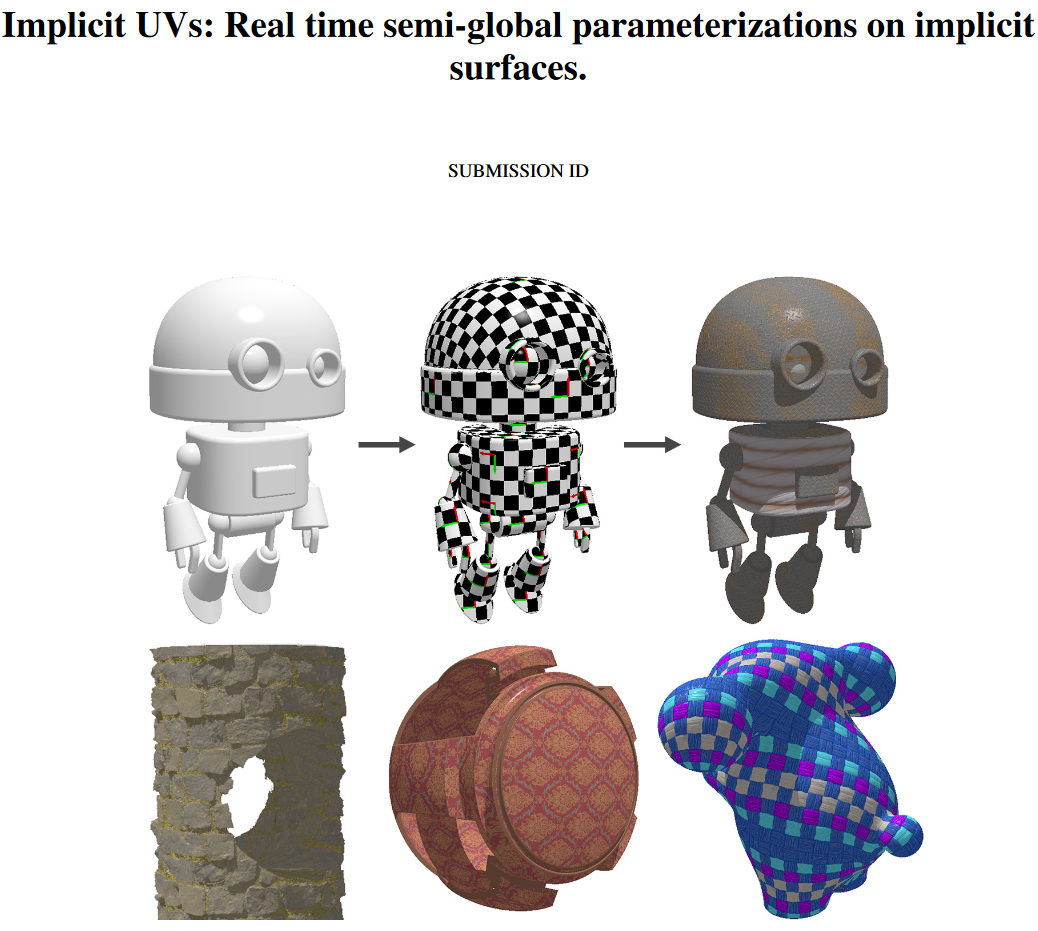
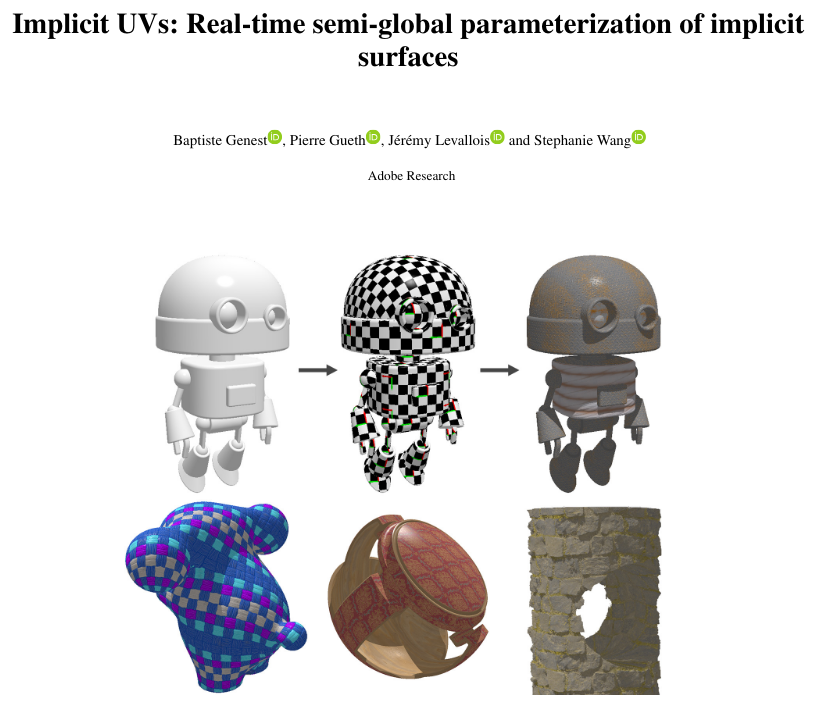
up prez

diff --git a/projects/implicit_uvs_simple/slides/curve_based.cpp b/projects/implicit_uvs_simple/slides/curve_based.cpp
@@ -32,12 +32,11 @@ void CreateCurveBasedSlides(slope::Slideshow& show) {
     auto save = show.getCurrentSlide();
 
     vec Log = LogSphere(p1,p2);
-    int fn = show.getNumberSlides() - 1;
 
-    auto geo = [p1,p2,Log,fn](scalar t,const TimeObject& time) {
-        if (time.absolute_frame_number == fn)
+    auto geo = [p1,p2,Log](scalar t,const TimeObject& time) {
+        if (time.relative_frame_number == 0)
             return p1;
-        if (time.absolute_frame_number == fn+1)
+        if (time.relative_frame_number == 1)
             return ExpSphere(p1,t*Log*smoothstep(time.from_action));
         return ExpSphere(p1,t*Log);
     };
@@ -46,7 +45,7 @@ void CreateCurveBasedSlides(slope::Slideshow& show) {
 
     auto geo_head = [Geo] (scalar) {
         return vec(Geo->getNodes().back());
-    }; 
+    };
 
     auto carry_vector = Point::Add(geo_head,0.0);
 
@@ -57,14 +56,60 @@ void CreateCurveBasedSlides(slope::Slideshow& show) {
     };
     show << Geo << carry_vector << carry_vector->addVector(transported_vector);
 
-    show << inNextFrame << inNextFrame >> carry_vector;
+    show << inNextFrame << save;
 
-    show << Latex::Add("We can accumulate a rotation matrix to map \\\\ vectors from $\\TM{x}$ to $\\TM{y}$ .")->at("discretization");
-        
-    show << Formula::Add("R_{\\TM{x} \\rightarrow \\TM{y}} = \\prod_{i = 1}^{N-1} R_{n(x_i)\\rightarrow n(x_{i+1})}")->at("parallel_transport_mat");
-    show << ptx->addVector(v) << Formula::Add("v")->at(vec(p1+v),vec2(0.0,-0.02)); 
-    vec vp = SmallestRotation(p1,p2)*v;
-    show << inNextFrame << pty->addVector(vp) << Formula::Add("v'")->at(vec(p2+vp),vec2(0.01,-0.03));
+
+    int N = 5;
+    vecs iterates(N);
+    for (int i = 0;i<N;i++)
+        iterates[i] = ExpSphere(p1,Log*i/(N-1));
+
+    auto iterates_pts = PointCloud::Add(iterates,0.03);
+    auto normals = iterates_pts->pc->addVectorQuantity("n",iterates);
+    normals->setVectorLengthScale(0.1);
+    normals->setVectorRadius(0.01);
+    show << iterates_pts << PolyscopeQuantity<polyscope::PointCloudVectorQuantity>::Add(normals);
+
+    {
+        vec x1 = iterates[1];
+        vec x2 = iterates[2];
+        vec Log = LogSphere(x1,x2);
+
+        auto geo = [x1, x2, Log](const TimeObject &time)
+        {
+            if (time.relative_frame_number == 0)
+                return x1;
+            if (time.relative_frame_number == 1)
+                return ExpSphere(x1, Log * smoothstep(time.from_action));
+            return x2;
+        };
+        vec vp = SmallestRotation(p1,x1)*v;
+        vec Tvp = SmallestRotation(x1,x2)*vp;
+        auto tangent_mapped = [vp,Tvp] (const TimeObject& time) {
+            if (time.relative_frame_number <= 1)
+                return vp;
+            if (time.relative_frame_number == 2)
+                return vec(slerp(vp.normalized(),Tvp.normalized(),smoothstep(time.from_action))*.3);
+            return Tvp;
+        };
+        auto normal_mapped = [x1,x2] (const TimeObject& time) {
+            if (time.relative_frame_number <= 1)
+                return vec(x1*.3);
+            if (time.relative_frame_number == 2)
+                return vec(slerp(x1,x2,smoothstep(time.from_action))*.3);
+            return vec(x2*.3);
+        };
+        auto pt =Point::Add(geo,0.);
+        show << pt << pt->addVector(normal_mapped) << pt->addVector(tangent_mapped) << inNextFrame;
+        show << Latex::Add("It can be discretized by aligning \\\\ consecutive normals along the curve, \\\\ using the smallest rotation \\\\ between $n(x_i)$ and $n(x_{i+1})$.")->at("discretization");
+        show << Formula::Add("R_{n(x_i)\\rightarrow n(x_{i+1})}")->at("smallest_rot");
+
+        show << inNextFrame ;
+        show << Formula::Add("R_{\\TM{x} \\rightarrow \\TM{y}} = \\prod_{i = 1}^{N-1} R_{n(x_i)\\rightarrow n(x_{i+1})}")->at("parallel_transport_mat");
+        show << inNextFrame << ptx->addVector(v) << Formula::Add("v")->at(vec(p1+v),vec2(0.0,-0.02));
+        vp = SmallestRotation(p1,p2)*v;
+        show << inNextFrame << pty->addVector(vp) << Formula::Add("v'")->at(vec(p2+vp),vec2(0.01,-0.03));
+    }
 
     show << newFrameSameTitle << PlaceBelow(Latex::Add("Detection of sharp features"),0.02);
 
@@ -110,7 +155,7 @@ void CreateCurveBasedSlides(slope::Slideshow& show) {
         auto crit = Latex::Add(" Stop if : $\\theta > \\epsilon$")->at("sharp_features_test");
         show << inNextFrame << crit ;
 
-        show << base << crit << Latex::Add("This implies that the surface is \\\\ implicitly segmented into smooth regions.")->at("sharp_features_text"); 
+        show << base << crit << Latex::Add("This implies that the surface is \\\\ implicitly segmented into smooth regions.")->at("sharp_features_text");
         show << Image::Add("sharp_features.png",0.7)->at("sharp_features_img");
     }
 

diff --git a/projects/implicit_uvs_simple/slides/compact_support.cpp b/projects/implicit_uvs_simple/slides/compact_support.cpp
@@ -12,41 +12,6 @@ void CreateCompactSupportSlides(slope::Slideshow& show) {
     show << newFrame << Title("Compact support interpolation")->at(TOP);
     show << Formula::Add("u(x) = \\frac{\\sum_i \\textcolor{red}{w_i(x)} \\left( \\Log_{y_i}(x) + u_i \\right)}{\\sum_i \\textcolor{red}{w_i(x)}}",Options::DefaultLatexScale*2)->at(CENTER);
 
-    show << newFrameSameTitle;
-
-    show << Gif::Add("finite_support_band.gif",30,0.7,true)->at("finite_support_band");
-    show << CameraView::Add("euc_dvij");
-    auto Sp = Context.sphere->copy();
-    Sp->pc->setEdgeWidth(0);
-    scalars Ds(Sp->getVertices().size(),0);
-    auto geo_dist = PolyscopeQuantity<polyscope::SurfaceVertexScalarQuantity>::Add(Sp->pc->addVertexSignedDistanceQuantity("distance_frontier",Ds));
-
-    vec ref = vec(0,0,1);
-    vec s2 = ExpSphere(ref,vec(0.5,0,0));
-    vec s1 = ExpSphere(ref,-vec(0.5,0,0));
-    auto ps1 = Point::Add([ref](scalar t){
-        t*= 2;
-        return ExpSphere(ref,vec(-0.5 + 0.3*cos(t),0.3*sin(t),0));
-    });
-
-    show << Point::Add(s2);
-    show << ps1;
-
-    Sp->updater = [Sp,geo_dist,ps1,s2] (TimeObject,Primitive*) {
-        geo_dist->q->updateData(Sp->eval([ps1,s2](const vec& x) {
-            scalar d0 = DistSphere(x,ps1->getCurrentPos());
-            scalar d1 = DistSphere(x,s2);
-            scalar d10 = DistSphere(ps1->getCurrentPos(),s2);
-            return dVij(d0,d1,d10);
-        }));
-    };
-
-    show << Sp << geo_dist;
-    show << Image::Add("band_weight_labeled.png",0.25)->at("wij_formula");
-
-    show << Latex::Add("What is important: \\\\ - only blend at interfaces \\\\ - only depend on distances between the points. \\\\ - simple test to avoid useless computations.")->at("voro_cell");
-}
-/*
     auto sub = Latex::Add("Between two seeds");
     show << newFrameSameTitle << PlaceBelow(sub);
 
@@ -84,6 +49,7 @@ void CreateCompactSupportSlides(slope::Slideshow& show) {
     show << PlaceRelative(euc,slope::ABS_LEFT,slope::REL_BOTTOM,0.1,0.04);
     auto p2 = Point::Add(x2);
     show << p1 << p2;
+    show << CameraView::Add("euc_dvij");
 
     show << Grid << dist;
 
@@ -93,6 +59,32 @@ void CreateCompactSupportSlides(slope::Slideshow& show) {
     show << inNextFrame >> p1 >> Grid >> p2 << PlaceRelative(Latex::Add("On surfaces, we use the geodesic distance instead."),slope::ABS_LEFT,slope::REL_BOTTOM,0.01,0.04);
     show << PlaceRelative(geo,slope::ABS_LEFT,slope::REL_BOTTOM,0.1,0.04);
 
+    auto Sp = Context.sphere->copy();
+    Sp->pc->setEdgeWidth(0);
+    scalars Ds(Sp->getVertices().size(),0);
+    auto geo_dist = PolyscopeQuantity<polyscope::SurfaceVertexScalarQuantity>::Add(Sp->pc->addVertexSignedDistanceQuantity("distance_frontier",Ds));
+
+    vec ref = vec(0,0,1);
+    vec s2 = ExpSphere(ref,vec(0.5,0,0));
+    vec s1 = ExpSphere(ref,-vec(0.5,0,0));
+    auto ps1 = Point::Add([ref](scalar t){
+        t*= 2;
+        return ExpSphere(ref,vec(-0.5 + 0.3*cos(t),0.3*sin(t),0));
+    });
+
+    show << Point::Add(s2);
+    show << ps1;
+
+    Sp->updater = [Sp,geo_dist,ps1,s2] (TimeObject,Primitive*) {
+        geo_dist->q->updateData(Sp->eval([ps1,s2](const vec& x) {
+            scalar d0 = DistSphere(x,ps1->getCurrentPos());
+            scalar d1 = DistSphere(x,s2);
+            scalar d10 = DistSphere(ps1->getCurrentPos(),s2);
+            return dVij(d0,d1,d10);
+        }));
+    };
+
+    show << Sp << geo_dist;
 
 
     show << base;
@@ -101,6 +93,7 @@ void CreateCompactSupportSlides(slope::Slideshow& show) {
 
     show << Formula::Add("w_{ij}(x) = ")->at("wij") << PlaceNextTo(Formula::Add(tex::cases("1","\\text{if } d_{V_{ij}}(x) < -\\sigma","\\omega(d_{V_{ij}})","\\text{if } -\\sigma < d_{V_{ij}}(x) < \\sigma","0","\\text{else}")),1);
 
+    show << Image::Add("band_weight_labeled.png",0.35)->at("wij_formula");
 
     show << inNextFrame << Latex::Add("Since $||x - y|| \\leq d_M(x,y)$, there is a simply test \\\\ to check if we can avoid to compute $d_M(x,y_j)$:")->at("test_text");
     show << Formula::Add("d_M(x,y_i)^2 + 2 \\sigma d_M(y_i,y_j) < ||x-y_j||^2")->at("simple test");
@@ -109,4 +102,6 @@ void CreateCompactSupportSlides(slope::Slideshow& show) {
     show << PlaceRelative(Latex::Add("The weight for one seed $w_i(x)$ is the \\\\ minimum of its weights with\\\\  its neighbors $w_{ij}(x)$:"),slope::ABS_LEFT,slope::REL_BOTTOM,0.01,0.05);
     show << Formula::Add("w_i(x) = \\min_{j | (i,j) \\in E} w_{ij}(x)")->at("wi_formula");
     show << Image::Add("wi.png")->at("wi_plot");
-    */
+
+    show << inNextFrame << Latex::Add("What is important: \\\\ - only blend at interfaces \\\\ - only depend on distances between the points. \\\\ - simple test to avoid useless computations.")->at("voro_cell");
+}

diff --git a/projects/implicit_uvs_simple/slides/atlas_computation.cpp b/projects/implicit_uvs_simple/slides/atlas_computation.cpp
@@ -38,6 +38,46 @@ void CreateAtlasComputeSlides(slope::Slideshow& show) {
         geos[i]->pc->setColor(glm::vec3(1,1,0));
     }
 
+    show << inNextFrame << PlaceRelative(Latex::Add("First, we compute the frames by minimizing a similarity energy: "),slope::ABS_LEFT,slope::REL_BOTTOM,0.03,0.04);
+    auto e_frame = Formula::Add("\\min_{t_i} \\sum_{(i,j) \\in E} \\frac{||R_{i\\rightarrow j} t_i - t_j||^2}{d_{ij}^2}");
+    show << e_frame->at("frame_energy");
+
+    vec t[3];
+    t[0] = (LogSphere(x[0],x[1]) + LogSphere(x[0],x[2])).normalized()*0.3;
+    t[1] = SmallestRotation(x[0],x[1])*t[0];
+    t[2] = SmallestRotation(x[0],x[2])*t[0];
+    vec t1 = -(LogSphere(x[1],x[0]) + t[1]).normalized()*0.3;
+    vec t2 = -(LogSphere(x[2],x[0]) + t[2]).normalized()*0.3;
+    show << pts[0]->addVector(t[0]);
+    show << pts[1]->addVector(t1);
+    show << pts[2]->addVector(t2);
+    show << Formula::Add("t_i")->at(vec(x[0] + t[0]),vec2(0.02,-0.02));
+    show << Formula::Add("t_j")->at(vec(x[1] + t1),vec2(0.02,-0.02));
+    //show << Formula::Add("t_2")->at(vec(x[2] + t2),vec2(0.02,-0.02));
+
+    show << inNextFrame;
+    for (int i = 0;i<3;i++){
+        auto t_i = pts[i]->addVector(t[i]);
+        t_i->q->setVectorColor(glm::vec3(0.5,0.5,1));
+        show << t_i;
+    }
+    show << Formula::Add("R_{i\\rightarrow j}t_i")->at(vec(x[1] + t[1]),vec2(0.02,-0.02));
+    show << inNextFrame;
+    auto diff = Curve3D::Add([x,t,t1](scalar s){
+        vec v = (1-s)*(x[1] + t[1]) + s*(x[1] + t1);
+        return v;
+    });
+    diff->pc->setColor(glm::vec3(1,0,0));
+    show << diff;
+    vec rt0 = x[0].cross(t[0]);
+    show << inNextFrame << pts[0]->addVector(rt0);
+
+    show << Formula::Add("n(y_i) \\times t_i")->at(x[0] + rt0,vec2(0.02,-0.02));
+    show << Latex::Add("Once the $t_i$ are computed, the frames \\\\  are completed by a 90° rotation.")->at("90_rotation");
+    show << inNextFrame << PlaceRelative(Latex::Add("Then, we compute the uv-offsets by trying\\\\ to respect each referential as much as possible: "),slope::ABS_LEFT,slope::REL_BOTTOM,0.03,0.04);
+    show << Formula::Add("\\min_{u_i} \\sum_{(i,j) \\in E} \\frac{||\\Log_{y_i}(y_j) - u_j - u_i||^2}{d_{ij}^2}")->at("offset_energy");
+
+    /*
     show  << PlaceRelative(Latex::Add("In order to minimize distortion, we compute optimal frames and\\\\ uv-offsets of each seeds by minimizing quadratic energies: "),slope::ABS_LEFT,slope::REL_BOTTOM,0.03,0.04);
     show << Latex::Add("Frame energy:")->at("frame_energy_txt");
     show << Latex::Add("Offset energy:")->at("offset_energy_txt");
@@ -74,6 +114,7 @@ void CreateAtlasComputeSlides(slope::Slideshow& show) {
     
     show << Formula::Add("n(y_i) \\times t_i")->at(x[0] + rt0,vec2(0.02,-0.02));
     show << Formula::Add("\\min_{u_i} \\sum_{(i,j) \\in E} \\frac{||\\Log_{y_i}(y_j) - u_j - u_i||^2}{d_{ij}^2}")->at("offset_energy");
+*/
 
     show << newFrameSameTitle << PlaceBelow(Latex::Add("Solving small linear systems"));
     show << PlaceRelative(Latex::Add("Solving least-square problems $\\implies$ solving SPD linear systems: "),slope::ABS_LEFT,slope::REL_BOTTOM,0.03,0.04);

diff --git a/projects/implicit_uvs_simple/slides/merging_fields.cpp b/projects/implicit_uvs_simple/slides/merging_fields.cpp
@@ -248,8 +248,12 @@ void CreateMergingFieldsSlides(slope::Slideshow& show) {
     auto sub = Latex::Add("Description of the workflow");
     show << PlaceBelow(sub);
     show <<  Gif::Add("workflow.gif",30,0.8)->at("workflow");
-    show << PlaceRelative(Latex::Add("On the CPU, the user defines a graph to define\\\\ which fields are to be merged."),sub,slope::ABS_LEFT,slope::REL_BOTTOM,0.02,0.04);
-    show << PlaceRelative(Latex::Add("- From that graph, compute optimal frames and uv-offsets $u_i$."),slope::ABS_LEFT,slope::REL_BOTTOM,0.05,0.02);
-    show << PlaceRelative(Latex::Add("The graph is sent to the GPU:"),slope::ABS_LEFT,slope::REL_BOTTOM,0.02,0.2);
-    show << PlaceRelative(Latex::Add("- each point can know which fields to merge "),slope::ABS_LEFT,slope::REL_BOTTOM,0.05,0.02);
+    show << PlaceRelative(Latex::Add("On the CPU, once: "),sub,slope::ABS_LEFT,slope::REL_BOTTOM,0.02,0.02);
+    show << PlaceRelative(Latex::Add("- From the set of seeds, the user defines which seeds should be merged in a graph $A = (\\{y_i\\},E)$"),slope::ABS_LEFT,slope::REL_BOTTOM,0.05,0.02);
+    show << PlaceRelative(Latex::Add("- Two seeds are merged if $(i,j) \\in E$, and we \\\\ compute the geodesic distance $d_{ij}$ between them."),slope::ABS_LEFT,slope::REL_BOTTOM,0.05,0.02);
+    show << PlaceRelative(Latex::Add("- Compute optimal frames and offsets $u_i$"),slope::ABS_LEFT,slope::REL_BOTTOM,0.05,0.02);
+    show << inNextFrame << PlaceRelative(Latex::Add("On the GPU, at each frame:"),slope::ABS_LEFT,slope::REL_BOTTOM,0.02,0.03);
+    show << PlaceRelative(Latex::Add("- Find closest seed $i_0$. "),slope::ABS_LEFT,slope::REL_BOTTOM,0.05,0.02);
+    show << PlaceRelative(Latex::Add("- Compute blending with the neighbors of $i_0$:"),slope::ABS_LEFT,slope::REL_BOTTOM,0.05,0.02);
+    show << Formula::Add("u(x) = \\frac{\\sum_{i \\in N(i_0)} w_i(x) \\left( \\Log_{y_i}(x) + u_i \\right)}{\\sum_{i\\in N(i_0)} w_i(x)}")->at("merging_formula_graph");
 }

diff --git a/projects/implicit_uvs_simple/slides/conclusion.cpp b/projects/implicit_uvs_simple/slides/conclusion.cpp
@@ -11,15 +11,15 @@ void CreateConclusionSlides(slope::Slideshow& show){
     show << Gif::Add("shell_space_bunny.gif",15,0.8,true)->at("shell_space");
     show << Gif::Add("shell_maps_virus.gif",15,0.9,true)->at("shell_space_2");
     show << newFrame << Title("Conclusion")->at(TOP);
-    show << Latex::Add("Summary of contributions:\\\\\\\\- Good quality local uv-fields\\\\ on implicit surfaces\\\\\\\\- Merging uv-fields into\\\\ more global ones,\\\\ \\\\- Completely real-time/parallel,\\\\ keep implicit advantages.")->at("summary");
-    show << Latex::Add("Outcomes : \\textbf{Eurographics 2025, patent}")->at("outcomes");
-    show << Image::Add("EG.png",0.8)->at("EG");
 
+    show << LatexLoader::Load("conclusion")->at("conclusion");
+    show << LatexLoader::Load("appli")->at("appli");
+    show << LatexLoader::Load("limitations")->at("limits");
+    show << LatexLoader::Load("futurwork")->at("future");
+    //show << Latex::Add("We introduce the first method to compute uv coordinates \\\\ on implicit surfaces without discretization, in real time.")->at("summary");
+    show << Image::Add("EG.png",1.)->at("EG");
 
-    show << newFrame << Title("Thank you!")->at(TOP);
+    show << newFrame << Title("Thank you! \\\\ Questions?")->at(TOP);
     show << Gif::Add("texture_seat.gif",20,1.3,false)->at("texture_seat");
     show << PlaceBelow(Latex::Add(tex::center("Simple texturing example."),slope::Options::DefaultLatexScale*0.6));
-
-    show << Image::Add("batou2.jpg",0.7)->at("me");
-    show << PlaceBelow(Latex::Add("mail : baptistegenest@gmail.com \\\\ website : baptiste-genest.github.io"),0.1);
 }

diff --git a/projects/implicit_uvs_simple/slides/intro.cpp b/projects/implicit_uvs_simple/slides/intro.cpp
@@ -4,15 +4,13 @@ using namespace slope;
 
 void CreateIntroSlides(slope::Slideshow& show) {
 
-    show << Title(tex::center("Research Internship: \\\\ Exit Talk"))->at("title");
-    show << PlaceBelow(Latex::Add(tex::center("Baptiste GENEST")),0.2);
-    show << PlaceBelow(Latex::Add(tex::center("Pierre Gueth, Jérémy Levallois, Stephanie Wang"),Options::DefaultLatexScale*0.7),0.05);
-    //show << PlaceBelow(Latex::Add(tex::center("Subject : Real-time parameterization of implicit surfaces"),Options::Slope_default_height_ratio*0.7),0.05);
-    show << PlaceBelow(Latex::Add(tex::center("Real-time parameterizations and details on implicit surfaces"),Options::DefaultLatexScale*0.7),0.05);
+    //show << Title(tex::center("Research Internship: \\\\ Exit Talk"))->at("title");
+    show << Title(tex::center("Implicit UVs: Real time semi-global parameterization \\\\ of implicit surfaces"))->at("title");
+    show << PlaceBelow(Latex::Add(tex::center("Baptiste Genest, Pierre Gueth, Jérémy Levallois, Stephanie Wang"),Options::DefaultLatexScale*0.7),0.05);
 
-//    show << Latex::Add("\\color{red} confidential",Options::Slope_default_height_ratio*0.6)->at("confidential");
+    show << Latex::Add("\\color{red} CONFIDENTIAL")->at("confidential");
 
     show << Image::Add("Adobe-Logo.png",0.1f)->at("adobe");
 
-    //show << newFrame << 
+    //show << newFrame <<
 }

diff --git a/projects/implicit_uvs_simple/slides/expmap.cpp b/projects/implicit_uvs_simple/slides/expmap.cpp
@@ -74,7 +74,7 @@ void CreateExpMapSlides(slope::Slideshow& show) {
     auto v_label_text = Formula::Add("v")->track([v_label](){return vec(v_label->getCurrentPos() + vec(-1.5,0,1));},vec2(0.02,0.02));
     auto exp_label = Formula::Add("\\Exp_p(v)")->track([curve_M](){return curve_M->getCurrentPos();},vec2(0.02,0.02));
     show << v_label_text << exp_label;
-    show << inNextFrame << Latex::Add("It is an \\emph{explicit} mapping!")->at("explicit_expm");
+    show << inNextFrame << Latex::Add("We need the opposite of that!")->at("explicit_expm");
     show << inNextFrame >> curve_M >> v_param >> v_label_text.first >> exp_label.first >> geo;
     vec target = ExpSphere(vec(0,0,1),vec(1,1,0)*0.4) + vec(1.5,0,0);
     vec source = vec(1.3,0,10);

diff --git a/projects/implicit_uvs_simple/slides/context.cpp b/projects/implicit_uvs_simple/slides/context.cpp
@@ -53,7 +53,7 @@ void CreateContextSlides(slope::Slideshow& show) {
     show << Latex::Add("Usually, one extensively use the connectivity of a mesh to compute global parameterizations.")->at("connec");
 
 
-    show << Image::Add("UVMapping.png",1.2)->at("uv_map");
+    show << Image::Add("UVMapping.png",1.)->at("uv_map");
 
     show << newFrameSameTitle;
     show << PlaceBelow(Latex::Add("Difficulty of the problem"));

diff --git a/projects/implicit_uvs_simple/main.cpp b/projects/implicit_uvs_simple/main.cpp
@@ -9,9 +9,12 @@ Slideshow show;
 void init() {
     Latex::UsePackage("cmbright");
 
+    LatexLoader::Init(Options::ProjectPath + "text.json");
+
     show.templater = [] (SlideManager& show,ScreenPrimitivePtr ptr) {
         show << PlaceRelative(ptr,ABS_LEFT,REL_BOTTOM,0.02,0.05);
     };
+
 
     LoadCommon();
     CreateIntroSlides(show);

diff --git a/src/libslope.h b/src/libslope.h
@@ -75,6 +75,8 @@ using mat2 = Eigen::Matrix<scalar,2,2>;
 using mat = Eigen::Matrix<scalar,3,3>;
 using vecs = std::vector<vec>;
 
+using colors = vecs;
+
 struct Vertex {
     vec pos;
     int id;
